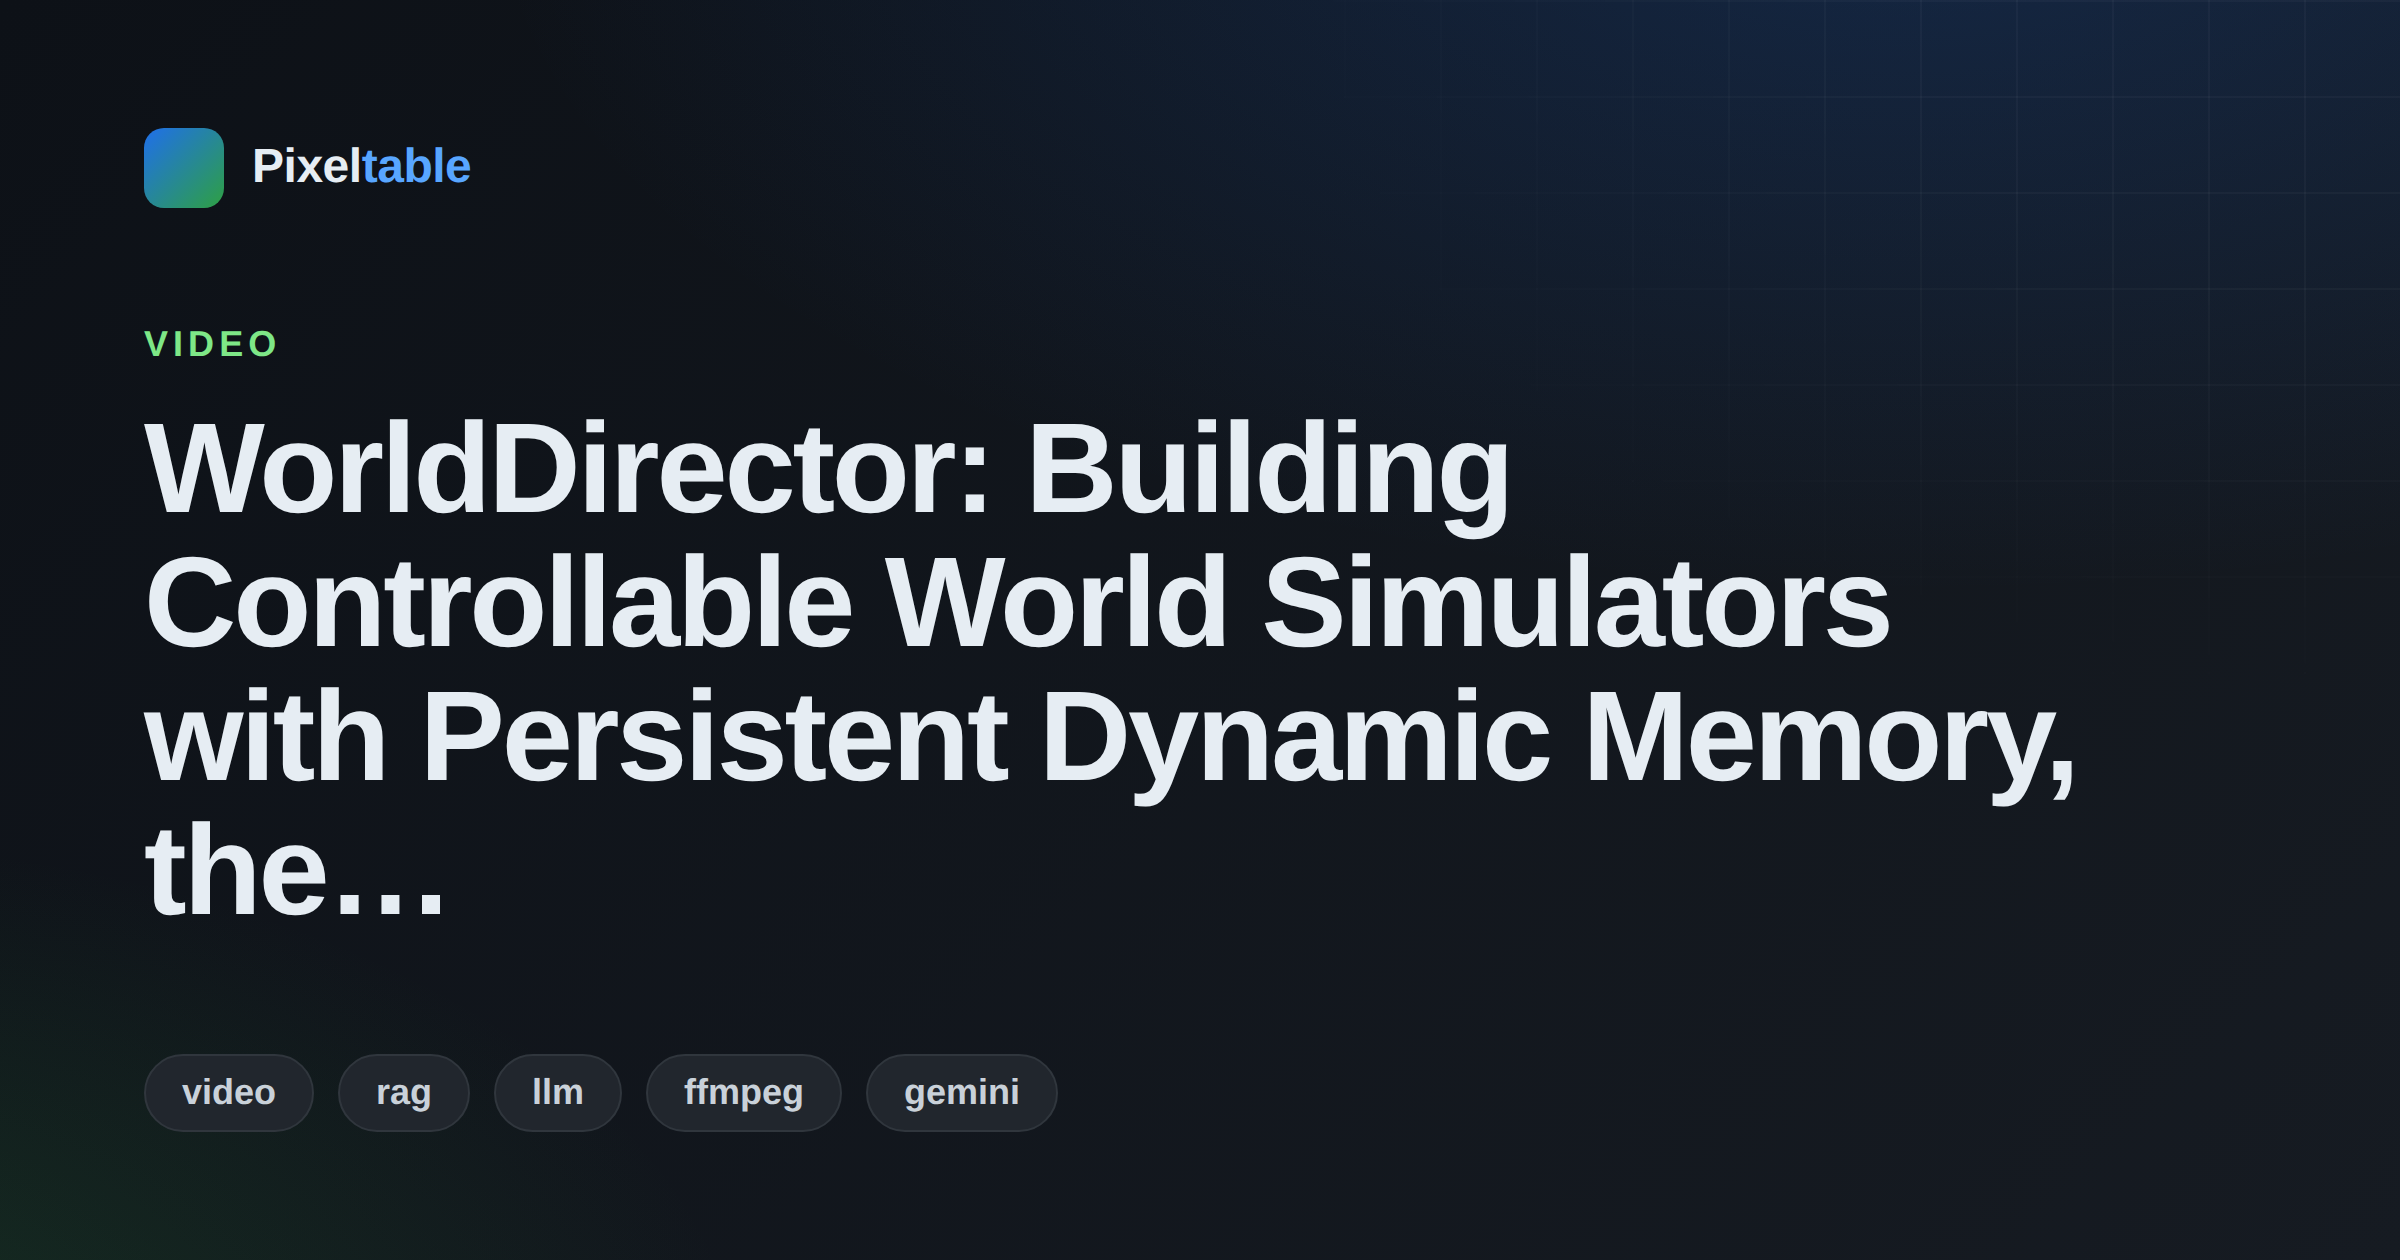
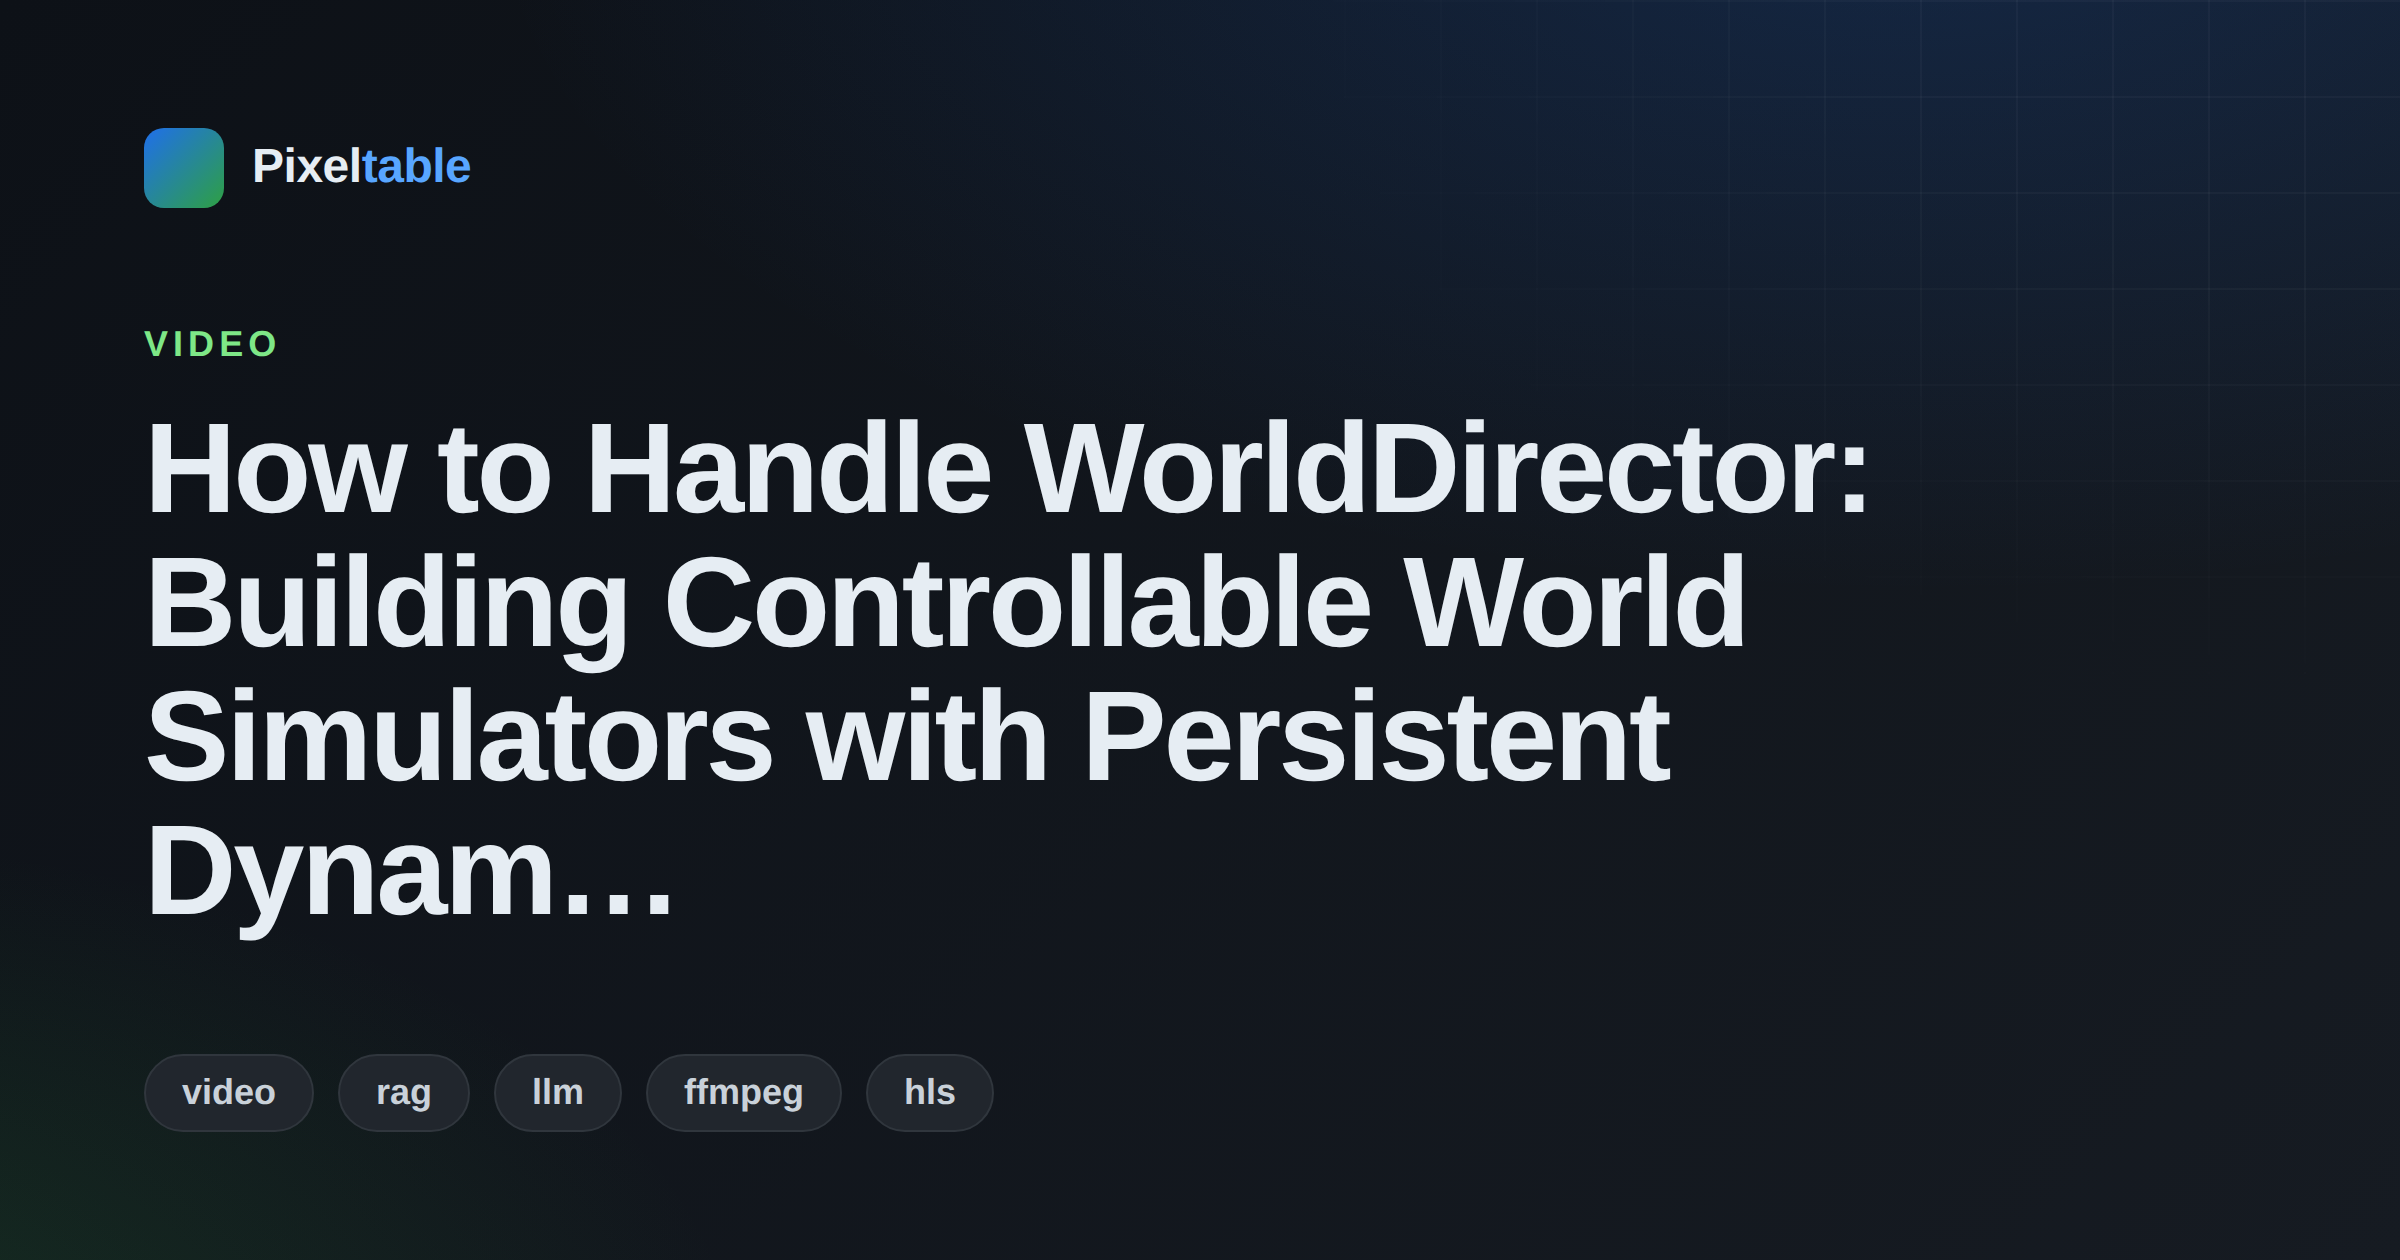
Publish site 2026-07-06T14:00Z

Changed region(s): [[0.0625, 0.3095, 0.875, 0.65], [0.0625, 0.65, 0.2812, 0.7429], [0.375, 0.8357, 0.4375, 0.8976]]

diff --git a/posts/worlddirector-building-controllable-world-simulators-with-persistent-dynamic-mem.html b/posts/worlddirector-building-controllable-world-simulators-with-persistent-dynamic-mem.html
@@ -1,7 +1,7 @@
 <!doctype html>
 <html lang="en"><head><meta charset="utf-8">
 <meta name="viewport" content="width=device-width, initial-scale=1">
-<title>WorldDirector: Building Controllable World Simulators with Persistent Dynamic Memory, the Pixeltable Way</title>
+<title>How to Handle WorldDirector: Building Controllable World Simulators with Persistent Dynamic Memory with Pixeltable</title>
 <meta name="description" content="A hands-on, runnable walkthrough using video — with real, executed output.">
 <style>
 :root { color-scheme: dark; }
@@ -29,12 +29,12 @@ hr { border: none; border-top: 1px solid #30363d; margin: 40px 0; }
 </style></head>
 <body><div class="wrap">
 <a class="home" href="../index.html">&larr; All articles</a>
-<p><img alt="WorldDirector: Building Controllable World Simulators with Persistent Dynamic Memory, the Pixeltable Way" src="https://chrisclone.github.io/pixeltable-content-feed/assets/worlddirector-building-controllable-world-simulators-with-persistent-dynamic-mem/hero.png"></p>
+<p><img alt="How to Handle WorldDirector: Building Controllable World Simulators with Persistent Dynamic Memory with Pixeltable" src="https://chrisclone.github.io/pixeltable-content-feed/assets/worlddirector-building-controllable-world-simulators-with-persistent-dynamic-mem/hero.png"></p>
 <p><em>A hands-on, runnable walkthrough using video — with real, executed output.</em></p>
 <p>WorldDirector: Building Controllable World Simulators with Persistent Dynamic Memory keeps showing up in the feeds I track — and for good reason. The hard
 part is rarely the idea; it's the plumbing: wiring data, transforms, and models
 together without it turning into a pile of glue scripts. Recurring themes around
-this topic: <strong>video, rag, llm, ffmpeg, gemini, omni</strong>.</p>
+this topic: <strong>video, rag, llm, ffmpeg, hls, media</strong>.</p>
 <p>This is exactly where <a href="https://github.com/pixeltable/pixeltable" rel="noopener noreferrer">Pixeltable</a>
 earns its keep. It gives you a declarative table where derived values are
 <em>computed columns</em> — define the transform once and it stays in sync as data
@@ -69,7 +69,7 @@ t.add_computed_column(thumb=t.img.resize([96, 96]))
 print(t.select(t.label, t.width, t.height).collect())
 </code></pre>
 <p>Run it and you get real output — here's the actual result captured from this
-exact snippet (ran in 5.06s):</p>
+exact snippet (ran in 5.28s):</p>
 <p><img alt="A multimodal image table with computed columns" src="https://chrisclone.github.io/pixeltable-content-feed/assets/worlddirector-building-controllable-world-simulators-with-persistent-dynamic-mem/example.png"></p>
 <pre><code>label  width  height
 0    red    256     192
@@ -96,10 +96,10 @@ doesn't change. That's the point.</p>
 <hr>
 <p><em>Researched against what's currently driving attention on this topic:</em></p>
 <ul>
+<li><a href="https://dev.to/larryxue/how-i-built-a-browser-based-video-to-powerpoint-converter-ag0" rel="noopener noreferrer">How I Built a Browser-Based Video to PowerPoint Converter</a></li>
 <li><a href="https://dev.to/jenueldev/gemini-omni-shows-where-ai-video-tools-are-heading-next-1pbo" rel="noopener noreferrer">Gemini Omni shows where AI video tools are heading next</a></li>
 <li><a href="https://dev.to/tecnomanu/framevox-a-video-production-cli-for-agent-made-social-videos-2bc8" rel="noopener noreferrer">FrameVOX: A Video Production CLI for Agent-Made Social Videos</a></li>
 <li><a href="https://dev.to/masonwritescode/build-scrub-bar-thumbnail-previews-with-ffmpeg-and-a-webvtt-sprite-3ei2" rel="noopener noreferrer">Build scrub-bar thumbnail previews with FFmpeg and a WebVTT sprite</a></li>
-<li><a href="https://dev.to/javidjamae/auto-generate-youtube-thumbnails-from-any-video-makecom-ffmpeg-530k" rel="noopener noreferrer">Auto-Generate YouTube Thumbnails from Any Video (Make.com + FFmpeg)</a></li>
-<li><a href="https://dev.to/ycbing/i-built-an-ai-studio-that-turns-1-line-of-text-into-a-5-minute-short-drama-j01" rel="noopener noreferrer">I Built an AI Studio That Turns 1 Line of Text Into a 5-Minute Short Drama</a></li>
+<li><a href="https://dev.to/masonwritescode/playing-hls-through-managed-media-source-on-iphone-with-hlsjs-3cn8" rel="noopener noreferrer">Playing HLS through Managed Media Source on iPhone with hls.js</a></li>
 </ul>
 </div></body></html>

diff --git a/index.html b/index.html
@@ -56,5 +56,5 @@ Subscribe via <a href="feed.xml">RSS</a>.</p>
 <a class="card-link" href="posts/same-evidence-different-answer-auditing-order-sensitivity-in-multimodal-large-la.html"><img src="https://chrisclone.github.io/pixeltable-content-feed/assets/same-evidence-different-answer-auditing-order-sensitivity-in-multimodal-large-la/hero.png" alt=""><h2>Same Evidence, Different Answer: Auditing Order Sensitivity in Multimodal Large Language Models, the Pixeltable Way</h2><p>A hands-on, runnable walkthrough using multimodal — with real, executed output.</p></a>
 <a class="card-link" href="posts/self-evolving-world-models-for-llm-agent-planning.html"><img src="https://chrisclone.github.io/pixeltable-content-feed/assets/self-evolving-world-models-for-llm-agent-planning/hero.png" alt=""><h2>Self-Evolving World Models for LLM Agent Planning, the Pixeltable Way</h2><p>A hands-on, runnable walkthrough using retrieval — with real, executed output.</p></a>
 <a class="card-link" href="posts/timeprove-propose-then-verify-for-efficient-long-video-temporal-reasoning-in-act.html"><img src="https://chrisclone.github.io/pixeltable-content-feed/assets/timeprove-propose-then-verify-for-efficient-long-video-temporal-reasoning-in-act/hero.png" alt=""><h2>TimeProVe: Propose, then Verify for Efficient Long Video Temporal Reasoning in Activities of Daily Living, the Pixeltable Way</h2><p>A hands-on, runnable walkthrough using video — with real, executed output.</p></a>
-<a class="card-link" href="posts/worlddirector-building-controllable-world-simulators-with-persistent-dynamic-mem.html"><img src="https://chrisclone.github.io/pixeltable-content-feed/assets/worlddirector-building-controllable-world-simulators-with-persistent-dynamic-mem/hero.png" alt=""><h2>WorldDirector: Building Controllable World Simulators with Persistent Dynamic Memory, the Pixeltable Way</h2><p>A hands-on, runnable walkthrough using video — with real, executed output.</p></a>
+<a class="card-link" href="posts/worlddirector-building-controllable-world-simulators-with-persistent-dynamic-mem.html"><img src="https://chrisclone.github.io/pixeltable-content-feed/assets/worlddirector-building-controllable-world-simulators-with-persistent-dynamic-mem/hero.png" alt=""><h2>How to Handle WorldDirector: Building Controllable World Simulators with Persistent Dynamic Memory with Pixeltable</h2><p>A hands-on, runnable walkthrough using video — with real, executed output.</p></a>
 </div></body></html>
